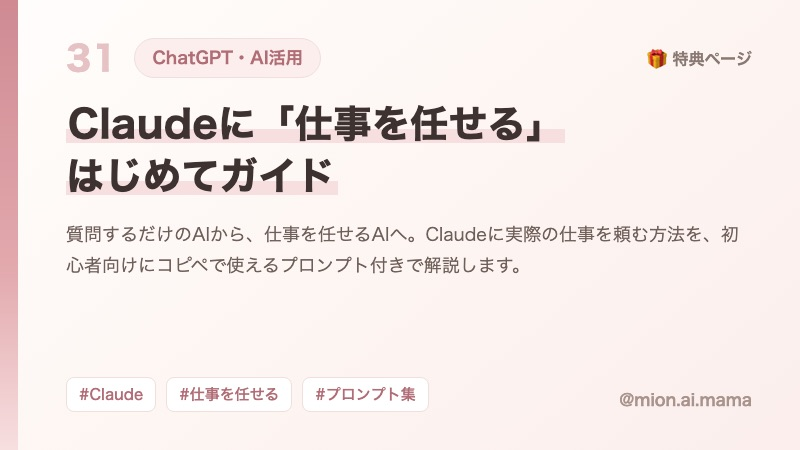
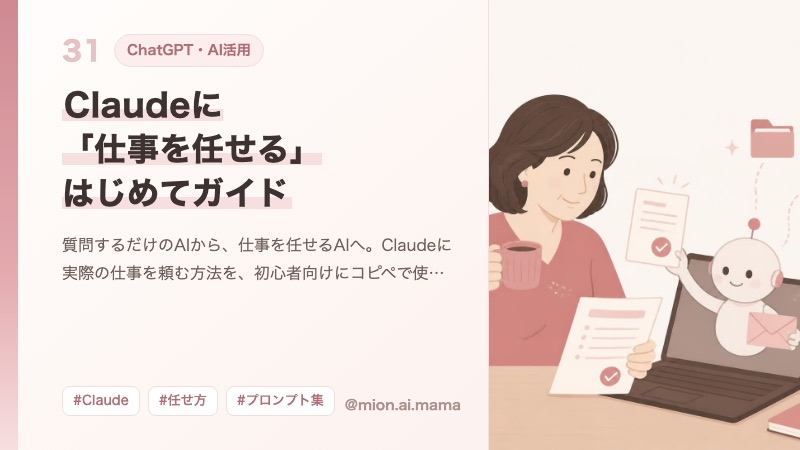
No.31のサムネイルを特典ページのイラスト入りに変更

diff --git a/js/presents.js b/js/presents.js
@@ -26,16 +26,18 @@ const PRESENTS = [
   {
     id: "claude-work-delegation-tokuten",
     thumbAuto: true, // サムネイルは gen-thumb.js で自動生成
+    // 特典ページ内のイラスト(横4:3)を、人物とロボットが収まる縦長に切り出して右側に並べる。
+    thumbArt: "assets/thumb-src/claude-work-delegation-cover.jpg",
     number: "31",
     type: "page",
     category: "ChatGPT・AI活用",
-    title: "Claudeに「仕事を任せる」<br>はじめてガイド",
+    title: "Claudeに<br>「仕事を任せる」<br>はじめてガイド",
     plainTitle: "Claudeに「仕事を任せる」はじめてガイド｜コピペで使えるプロンプト付き",
     description:
       "質問するだけのAIから、仕事を任せるAIへ。Claudeに実際の仕事を頼む方法を、初心者向けにコピペで使えるプロンプト付きで解説します。",
-    tags: ["Claude", "仕事を任せる", "プロンプト集"],
+    tags: ["Claude", "任せ方", "プロンプト集"],
     url: "https://mion-ai-mama.github.io/claude-work-delegation-tokuten/",
-    image: "assets/thumbs/claude-work-delegation-tokuten.jpg?v=4f2b8af3",
+    image: "assets/thumbs/claude-work-delegation-tokuten.jpg?v=9500e0fe",
   },
   {
     id: "japanese-poster-etsy-tokuten",
